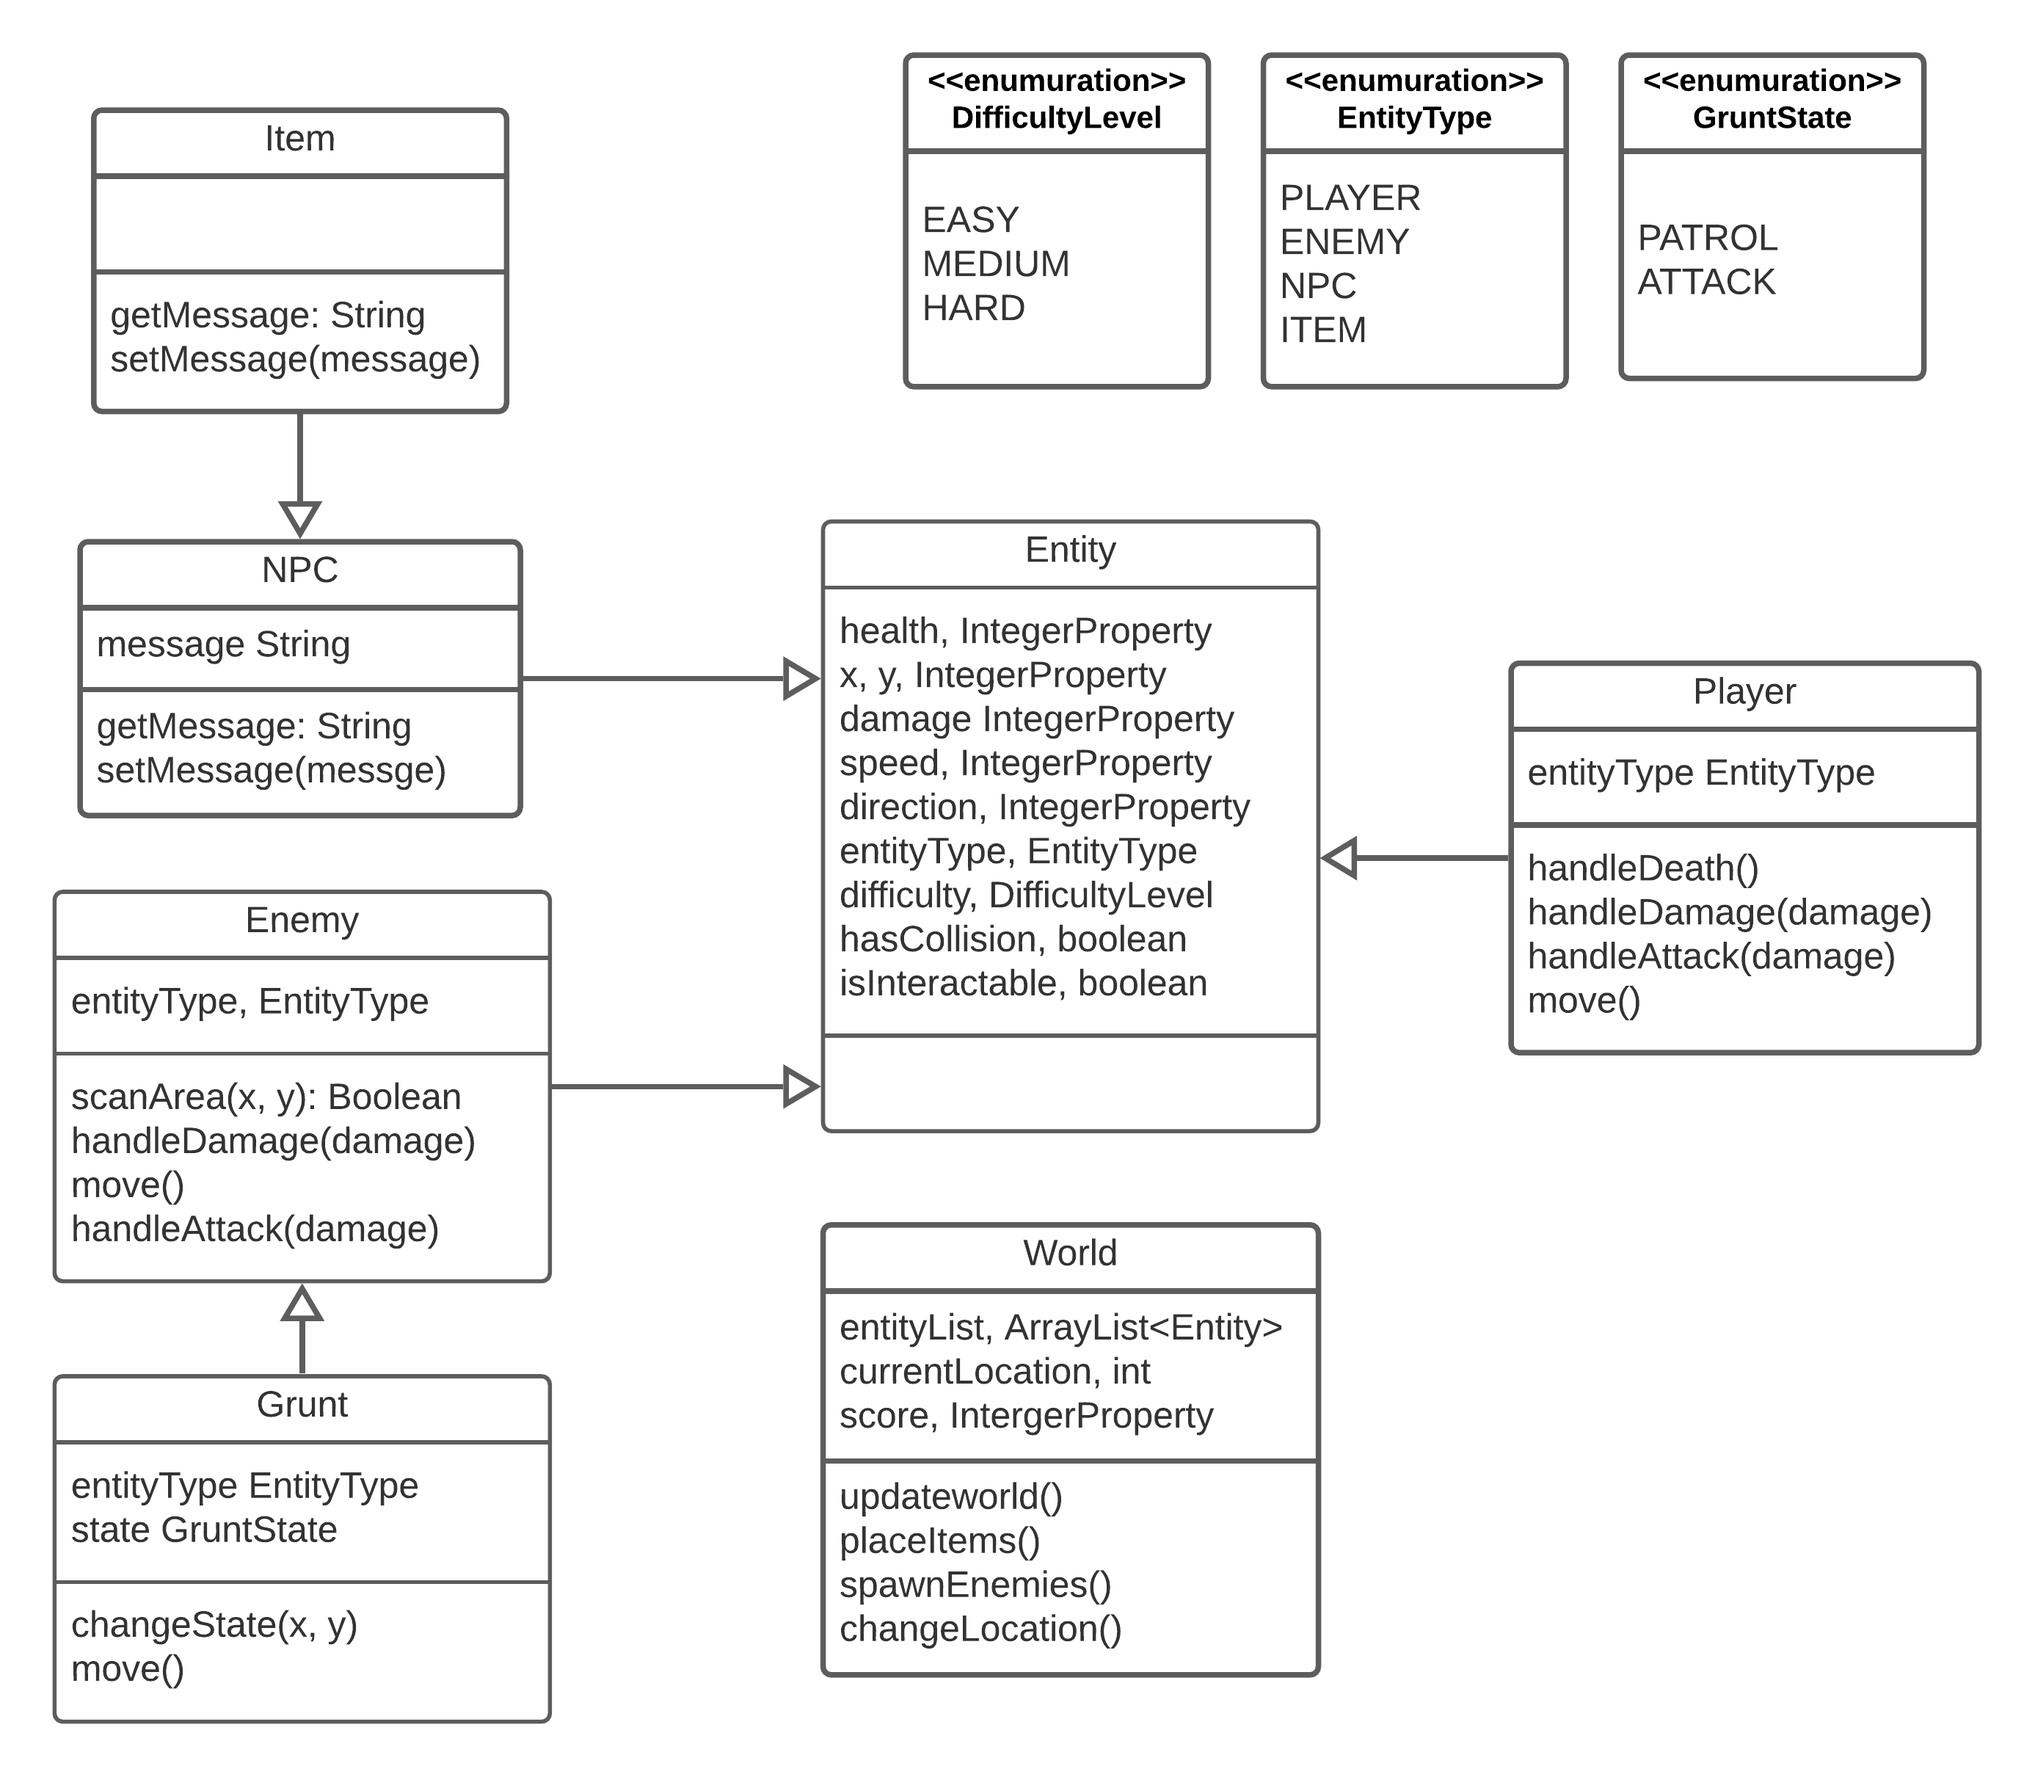
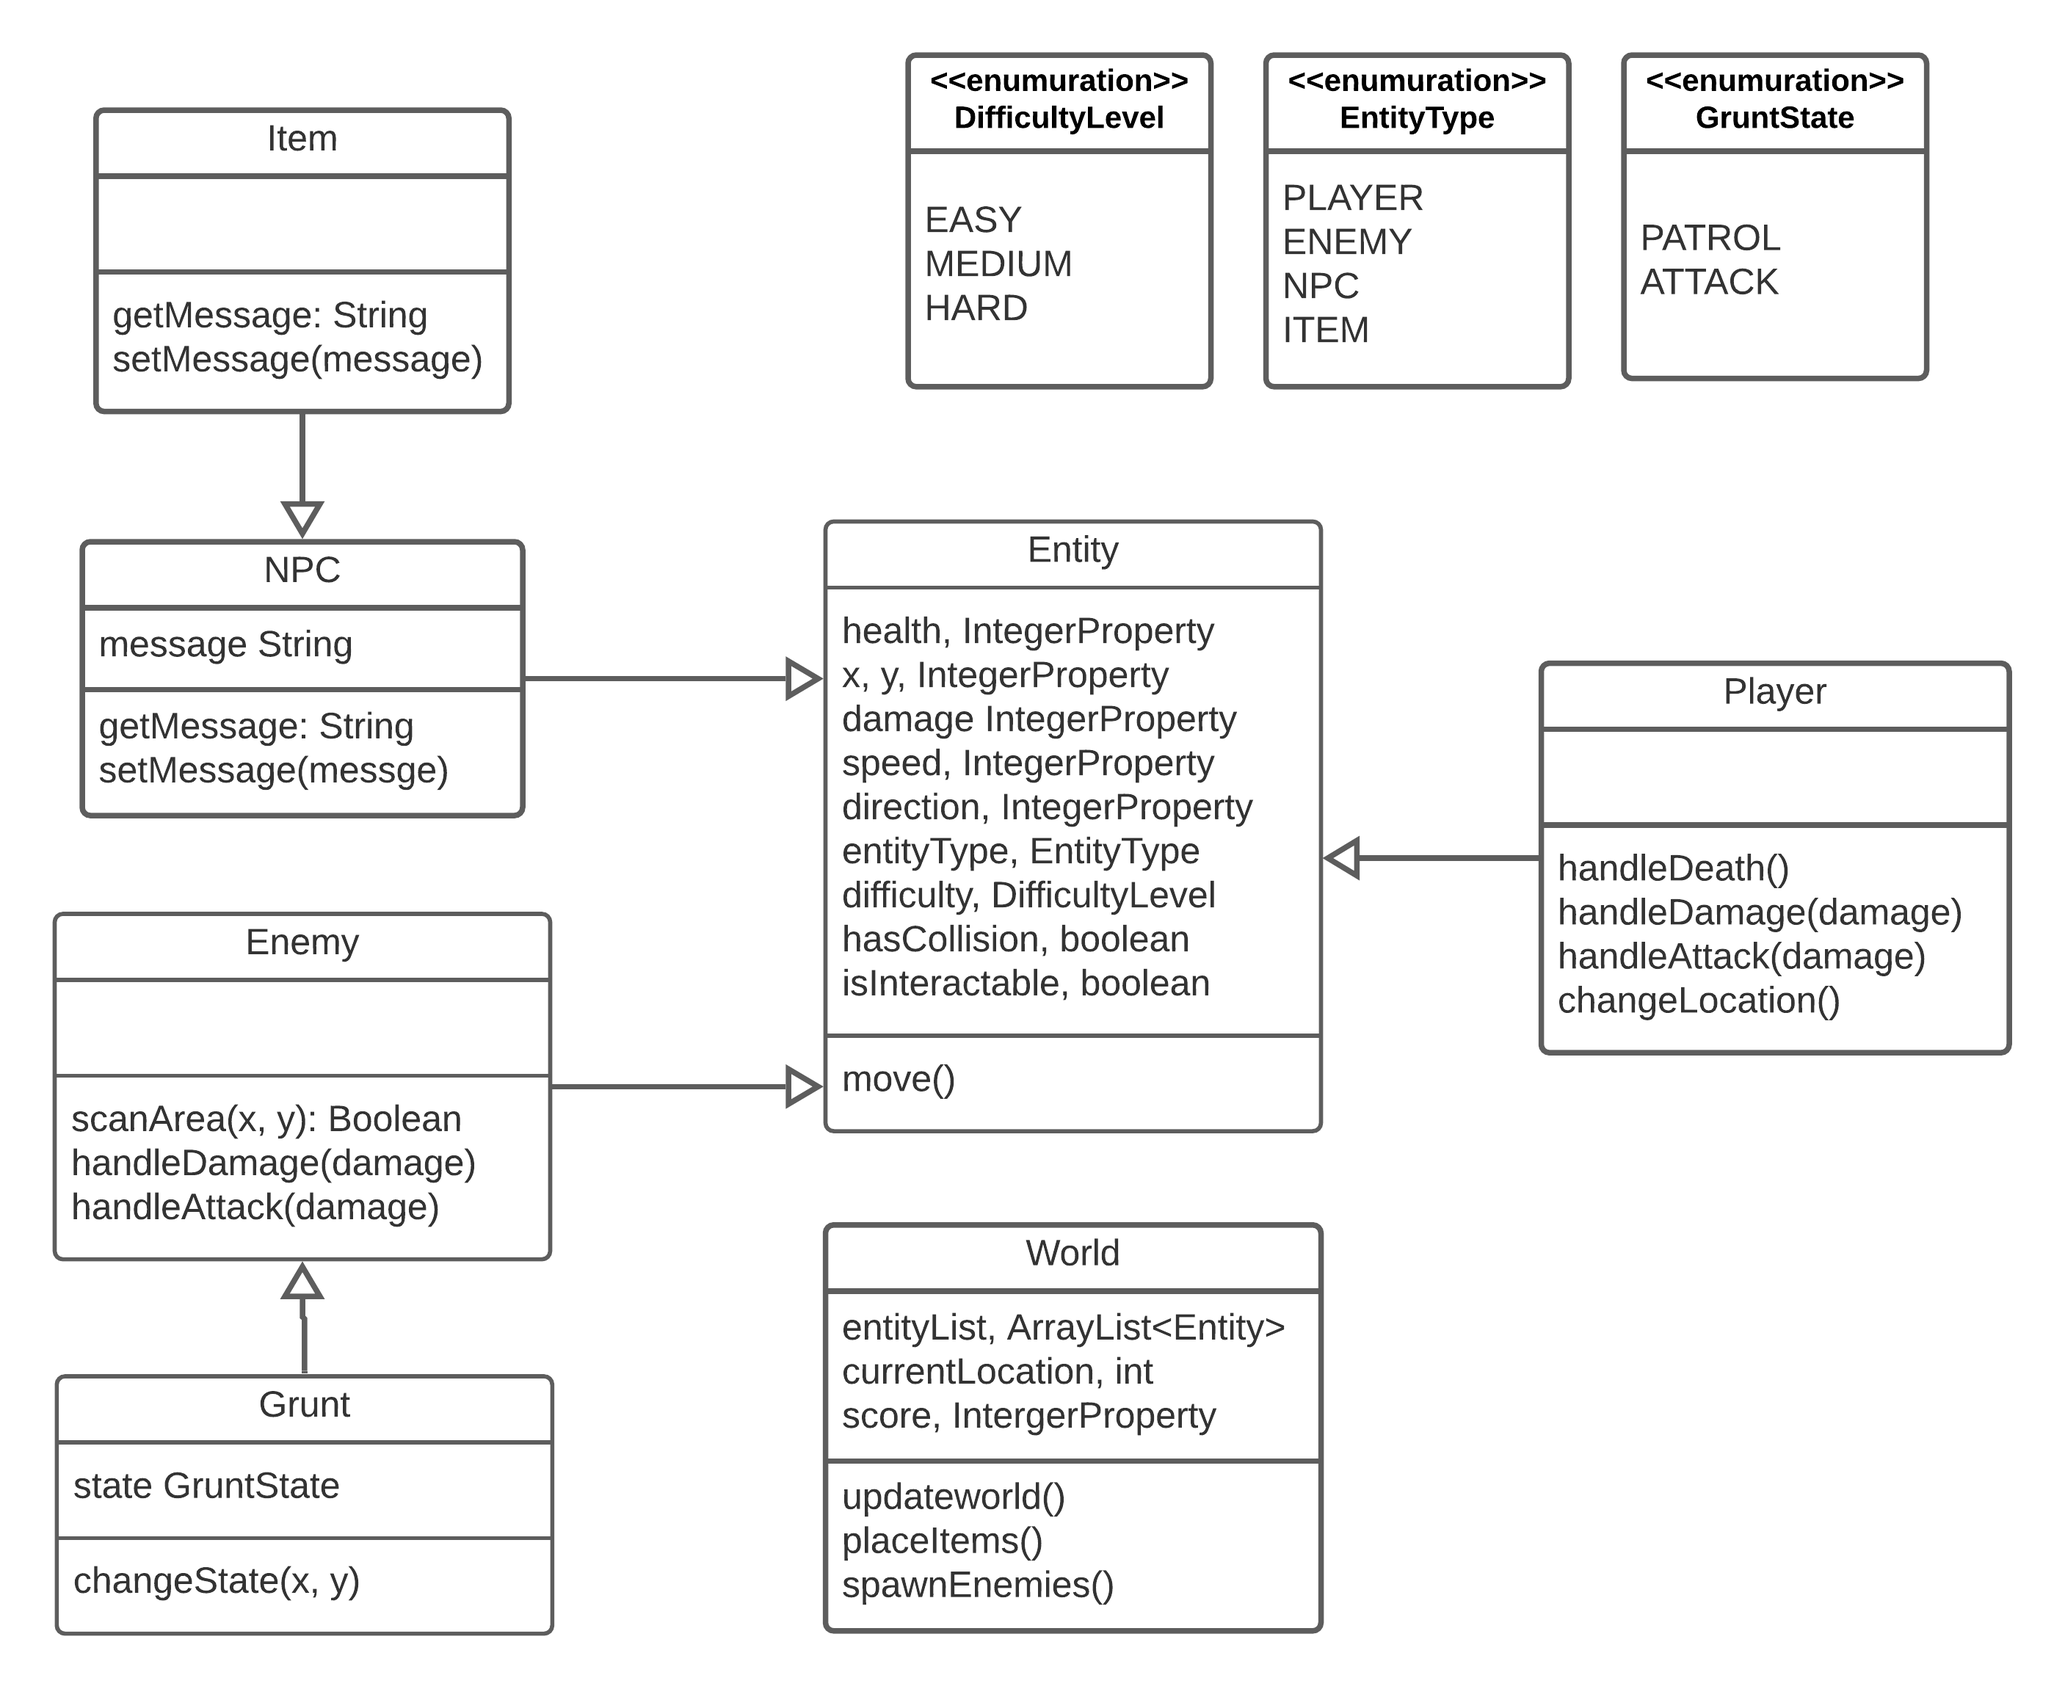
Changes to Game Model

Changed region(s): [[0.031, 0.2777, 0.9924, 0.9874], [0.4342, 0.0309, 0.9614, 0.2468], [0.031, 0.0617, 0.2481, 0.2468]]

diff --git a/src/model/Grunt.java b/src/model/Grunt.java
@@ -4,11 +4,11 @@ import java.lang.Thread.State;
 
 public class Grunt extends Enemy {
 
-    private EntityType entityType;
+
     private GruntState state;
 
     public Grunt(EntityType entityType) {
-        super(entityType);
+        super();
         //TODO Auto-generated constructor stub
     }
 
@@ -20,13 +20,6 @@ public class Grunt extends Enemy {
      */
     public void changeState(int x, int y) {
         super.scanArea(x, y);
-    }
-
-    /**
-     * Moves the grunt based on its state, speed, and direction. 
-     */
-    public void move() {
-
     }
 
     

diff --git a/src/model/Entity.java b/src/model/Entity.java
@@ -9,15 +9,21 @@ public class Entity {
     private IntegerProperty speed;
     private IntegerProperty direction;
 
-    private EntityType entityType;
     private DifficultyLevel difficulty;
 
     private boolean hasCollision;
     private boolean isInteractable;
 
 
-    public Entity(EntityType entityType) {
+    public Entity() {
         throw new RuntimeException("Method not implemented");
+    }
+
+    /**
+     * Moves the entity based on its state, speed, and direction. 
+     */
+    public void move() {
+
     }
 
     public String serialize() {

diff --git a/src/model/Player.java b/src/model/Player.java
@@ -2,10 +2,9 @@ package model;
 
 class Player extends Entity {
 
-    EntityType entityType;
 
-    public Player(EntityType entityType) {
-        super(entityType);
+    public Player() {
+        super();
     }
 
     /**
@@ -36,6 +35,13 @@ class Player extends Entity {
      */
     public void handleAttack(int damage) {
         throw new RuntimeException("Method not implemented");
+    }
+
+    /**
+     * Changes the location if the player reaches the edges of the map.
+     */
+    public void changeLocation() {
+
     }
 
 

diff --git a/src/model/World.java b/src/model/World.java
@@ -41,13 +41,6 @@ class World {
     }
 
     /**
-     * Changes the location if the player reaches the edges of the map.
-     */
-    public void changeLocation() {
-
-    }
-
-    /**
      * Saves the game to a text file.
      */
     public void save() {

diff --git a/src/model/NPC.java b/src/model/NPC.java
@@ -5,8 +5,8 @@ public class NPC extends Entity {
     private String message;
 
 
-    public NPC(EntityType entityType) {
-        super(entityType);
+    public NPC() {
+        super();
         //TODO Auto-generated constructor stub
     }
  

diff --git a/src/model/Item.java b/src/model/Item.java
@@ -2,8 +2,8 @@ package model;
 
 public class Item extends NPC {
 
-    public Item(EntityType entityType) {
-        super(entityType);
+    public Item() {
+        super();
     }
 
     public String getMessage() {

diff --git a/src/model/Enemy.java b/src/model/Enemy.java
@@ -2,10 +2,8 @@ package model;
 
 class Enemy extends Entity {
     
-    EntityType entityType;
-  
-    Enemy(EntityType entityType) {
-        super(entityType);
+    Enemy() {
+        super();
     }
 
     /**
